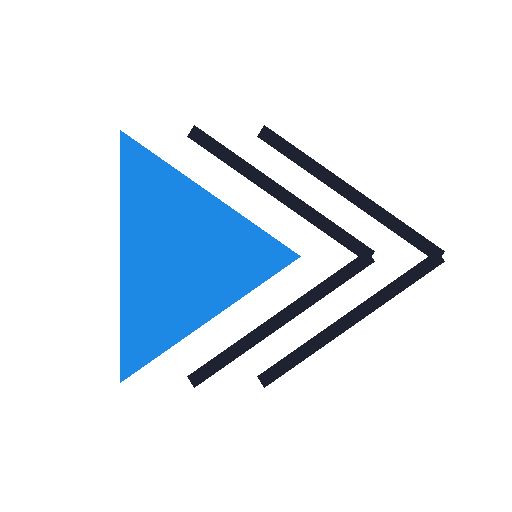
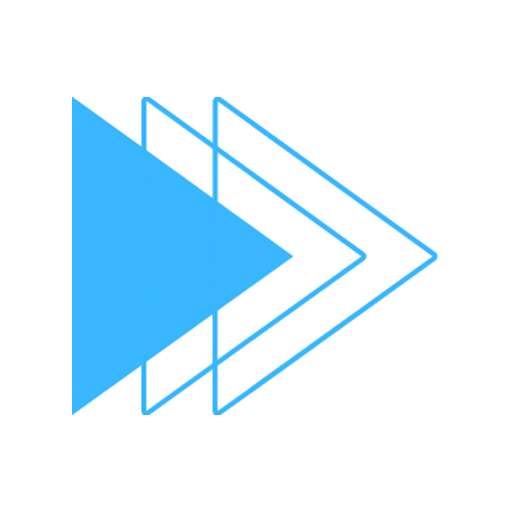
Add files via upload

Changed region(s): [[0.125, 0.1875, 0.875, 0.8125]]

diff --git a/index.html b/index.html
@@ -76,10 +76,7 @@
 </head>
 <body>
 <header>
-  <div class="logo">
-    <svg viewBox="0 0 34 26"><path d="M0 0L16 13L0 26Z" fill="#1e88e5"/><path d="M8 0L24 13L8 26" fill="none" stroke="#1f2230" stroke-width="1.6"/><path d="M15 0L31 13L15 26" fill="none" stroke="#1f2230" stroke-width="1.6"/></svg>
-    <div><b>SMART</b><small>ANALİTİK</small></div>
-  </div>
+  <div class="logo"><img src="logo.png" alt="Smart Analitik" style="height:36px;display:block"></div>
   <h1>Teknik Servis<br>Raporu</h1>
 </header>
 
@@ -429,7 +426,6 @@
   // ---------- Başlangıç ----------
   loadDraft();
   function init(data){
-    if(data.logo){ var lg=document.querySelector('.logo'); lg.innerHTML=''; var im=new Image(); im.src=data.logo; im.alt='Smart Analitik'; im.style.height='38px'; lg.appendChild(im); }
     fillStaff(data.staff || []); fillCustomers(data.customers);
     state.pinRequired = !!data.pinRequired; state.requireSig = !!data.requireCustomerSignature;
     $('pinCard').style.display = (state.pinRequired && !data.pinOk) ? '' : 'none';

diff --git a/anket-gonder.html b/anket-gonder.html
@@ -78,10 +78,7 @@
 </head>
 <body>
 <header>
-  <div class="logo">
-    <svg viewBox="0 0 34 26"><path d="M0 0L16 13L0 26Z" fill="#1e88e5"/><path d="M8 0L24 13L8 26" fill="none" stroke="#1f2230" stroke-width="1.6"/><path d="M15 0L31 13L15 26" fill="none" stroke="#1f2230" stroke-width="1.6"/></svg>
-    <div><b>SMART</b><small>ANALİTİK</small></div>
-  </div>
+  <div class="logo"><img src="logo.png" alt="Smart Analitik" style="height:36px;display:block"></div>
   <h1>Teknik Servis<br>Raporu</h1>
 
 </header>
@@ -150,7 +147,6 @@
   }
 
   function init(data){
-    if(data.logo){ var lg=document.querySelector('.logo'); lg.innerHTML=''; var im=new Image(); im.src=data.logo; im.alt='Smart Analitik'; im.style.height='38px'; lg.appendChild(im); }
     var sel=$('personel'), cur=sel.value; sel.innerHTML='<option value="">—</option>';
     (data.staff||[]).forEach(function(s){ var o=document.createElement('option'); o.value=o.textContent=s; sel.appendChild(o); });
     sel.value = cur || store.get('sa_servis_personel') || '';

diff --git a/anket.html b/anket.html
@@ -75,7 +75,7 @@
 <body>
 <div class="page">
   <div class="hdr">
-    <div class="lg" id="logo"><div class="brand"><b>SMART</b><small>ANALİTİK</small></div></div>
+    <div class="lg" id="logo"><img src="logo.png" alt="Smart Analitik"></div>
     <div class="tt">MÜŞTERİ MEMNUNİYETİ ANKETİ</div>
     <div class="dc"><table class="doc">
       <tr><td>Doküman No:</td><td id="dNo">F060-0010</td></tr>
@@ -129,7 +129,6 @@
   function getJSON(u){ return fetch(u, { credentials:'omit' }).then(function(r){ return r.json(); }); }
 
   function render(d){
-    if(d.logo) $('logo').innerHTML = '<img src="'+esc(d.logo)+'" alt="Smart Analitik">';
     if(d.doc){ $('dNo').textContent=d.doc.no; $('dPub').textContent=d.doc.publish; $('dRev').textContent=d.doc.rev; $('dRevD').textContent=d.doc.revDate; }
     if(d.footer) $('foot').innerHTML = '<b>'+esc(d.footer.name)+'</b><br>'+esc(d.footer.address)+'<br>'+esc(d.footer.contact);
     if(d.state === 'invalid') return show('invalid');

diff --git a/sw.js b/sw.js
@@ -1,7 +1,7 @@
 // Formun internet yokken de açılması için uygulama dosyalarını telefonda saklar.
-// Dosyaları güncellediğinizde aşağıdaki sürüm numarasını artırın (v2 -> v3).
-const CACHE = 'sa-servis-v2';
-const FILES = ['./', './index.html', './anket-gonder.html', './config.js', './manifest.json', './icon-192.png', './apple-touch-icon.png'];
+// Dosyaları güncellediğinizde aşağıdaki sürüm numarasını artırın (v1 -> v2).
+const CACHE = 'sa-servis-v3';
+const FILES = ['./', './index.html', './anket-gonder.html', './config.js', './manifest.json', './logo.png', './icon-192.png', './apple-touch-icon.png'];
 
 self.addEventListener('install', e => {
   e.waitUntil(caches.open(CACHE).then(c => c.addAll(FILES)).then(() => self.skipWaiting()));
